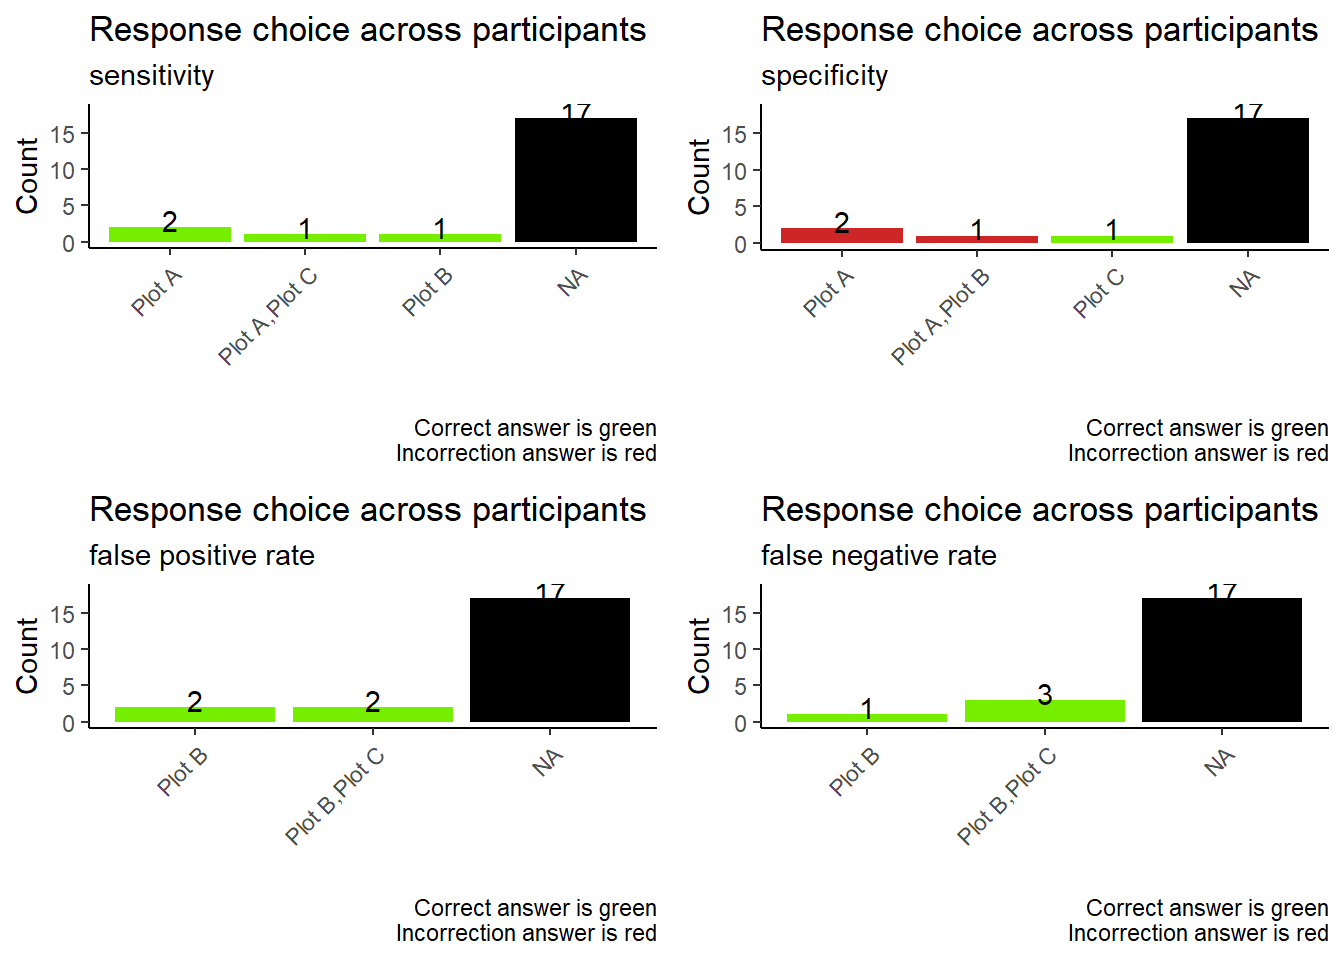
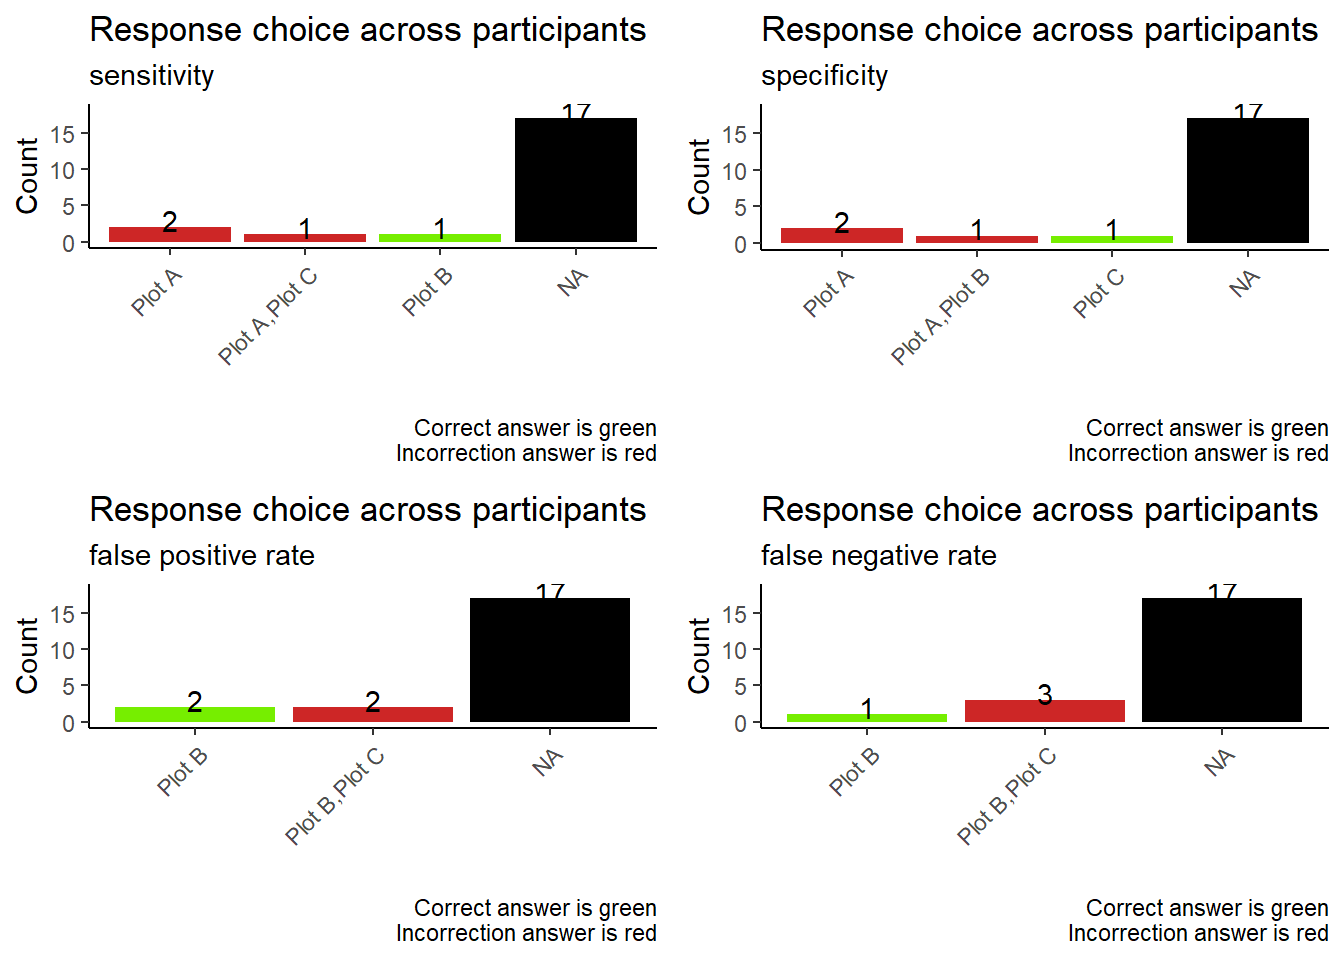
update

Changed region(s): [[0.0625, 0.2188, 0.2812, 0.25], [0.7188, 0.7188, 0.8438, 0.75], [0.2188, 0.7188, 0.3438, 0.75]]

diff --git a/ds_doc.html b/ds_doc.html
@@ -141,11 +141,11 @@ window.Quarto = {
 </section>
 <section id="data" class="level1">
 <h1>Data</h1>
-<p>The follow data are fake and for demonstration purposes only</p>
+<p>The following data are fake and for demonstration purposes only</p>
 </section>
 <section id="report" class="level1">
 <h1>Report</h1>
-<p>There are 19 participants in our data set. Of the 19 participants, NA made it to the last question of the survey. The average time it took to complete this survey was 450.1 minutes, with NA students taking more than 1 hour to complete the assessment, and NA students taking more than 2 hours to complete the assessment.</p>
+<p>There are 19 participants in our data set. Of the 19 participants, 10 made it to the last question of the survey. The average time it took to complete this survey was 429.3 minutes, with 2 students taking more than 60 minutes to complete the assessment, and 2 students taking more than 120 minutes to complete the assessment.</p>
 <p>4 students correctly passed both attention checks in the survey.</p>
 <section id="missing-observations" class="level2">
 <h2 class="anchored" data-anchor-id="missing-observations">Missing observations</h2>
@@ -387,7 +387,7 @@ window.Quarto = {
 <tr class="odd">
 <td style="text-align: left; font-weight: bold; color: white !important; background-color: red !important;">COVID screening tests are not 100% accurate. It's possible to have COVID but not test positive or not have COVID but test positive for it. The following three visualizations display the outcomes of a COVID screening test with a sensitivity (true positive rate) of 98.1% and specificity (true negative rate) of 99.6% in a population where 5% of the individuals have COVID. We are also interested in the false positive (individuals classified as with COVID, who don't actually have it) and false negative (individuals classified as without COVID, but who do actually have it) rates. Fill in the following table by placing a checkmark in the cells corresponding to the attributes of the data that can be determined by examining each of the plots. - Sensitivity</td>
 <td style="text-align: right; font-weight: bold; color: white !important; background-color: red !important;">9</td>
-<td style="text-align: right; font-weight: bold; color: white !important; background-color: red !important;">0.0000000</td>
+<td style="text-align: right; font-weight: bold; color: white !important; background-color: red !important;">0.0476190</td>
 </tr>
 <tr class="even">
 <td style="text-align: left; font-weight: bold; color: white !important; background-color: red !important;">COVID screening tests are not 100% accurate. It's possible to have COVID but not test positive or not have COVID but test positive for it. The following three visualizations display the outcomes of a COVID screening test with a sensitivity (true positive rate) of 98.1% and specificity (true negative rate) of 99.6% in a population where 5% of the individuals have COVID. We are also interested in the false positive (individuals classified as with COVID, who don't actually have it) and false negative (individuals classified as without COVID, but who do actually have it) rates. Fill in the following table by placing a checkmark in the cells corresponding to the attributes of the data that can be determined by examining each of the plots. - Specificity</td>
@@ -397,12 +397,12 @@ window.Quarto = {
 <tr class="odd">
 <td style="text-align: left; font-weight: bold; color: white !important; background-color: red !important;">COVID screening tests are not 100% accurate. It's possible to have COVID but not test positive or not have COVID but test positive for it. The following three visualizations display the outcomes of a COVID screening test with a sensitivity (true positive rate) of 98.1% and specificity (true negative rate) of 99.6% in a population where 5% of the individuals have COVID. We are also interested in the false positive (individuals classified as with COVID, who don't actually have it) and false negative (individuals classified as without COVID, but who do actually have it) rates. Fill in the following table by placing a checkmark in the cells corresponding to the attributes of the data that can be determined by examining each of the plots. - False positive rate</td>
 <td style="text-align: right; font-weight: bold; color: white !important; background-color: red !important;">11</td>
-<td style="text-align: right; font-weight: bold; color: white !important; background-color: red !important;">0.0000000</td>
+<td style="text-align: right; font-weight: bold; color: white !important; background-color: red !important;">0.0952381</td>
 </tr>
 <tr class="even">
 <td style="text-align: left; font-weight: bold; color: white !important; background-color: red !important;">COVID screening tests are not 100% accurate. It's possible to have COVID but not test positive or not have COVID but test positive for it. The following three visualizations display the outcomes of a COVID screening test with a sensitivity (true positive rate) of 98.1% and specificity (true negative rate) of 99.6% in a population where 5% of the individuals have COVID. We are also interested in the false positive (individuals classified as with COVID, who don't actually have it) and false negative (individuals classified as without COVID, but who do actually have it) rates. Fill in the following table by placing a checkmark in the cells corresponding to the attributes of the data that can be determined by examining each of the plots. - False negative rate</td>
 <td style="text-align: right; font-weight: bold; color: white !important; background-color: red !important;">12</td>
-<td style="text-align: right; font-weight: bold; color: white !important; background-color: red !important;">0.0000000</td>
+<td style="text-align: right; font-weight: bold; color: white !important; background-color: red !important;">0.0476190</td>
 </tr>
 <tr class="odd">
 <td style="text-align: left; font-weight: bold; color: white !important; background-color: red !important;">For each of the following items, indicate whether the statement is TRUE, FALSE, or whether you would need additional information to determine this. If you need additional information to make that determination, indicate what else you would need. Men in Austen's novels are more likely to have 'dared', 'expected', and 'ran' than women. - Selected Choice</td>
@@ -641,14 +641,8 @@ window.Quarto = {
 <section id="short-answer-questions" class="level2">
 <h2 class="anchored" data-anchor-id="short-answer-questions">Short answer questions</h2>
 <p>Section 2 - SA</p>
-<p>Look at creating hisogram of number of words, etc. Some sort of meta data (tidytext package)</p>
+<p>Look at creating histogram of number of words, etc.</p>
 <p>https://cran.r-project.org/web/packages/tidytext/vignettes/tidytext.html</p>
-</section>
-<section id="how-to-make-this-doc" class="level2">
-<h2 class="anchored" data-anchor-id="how-to-make-this-doc">How to make this doc</h2>
-<p>Write report to take data from class</p>
-<p>write code to create the following</p>
-<p>in-line code to summarize high level data (time taken / completed vs not / etc)</p>
 </section>
 </section>
 
